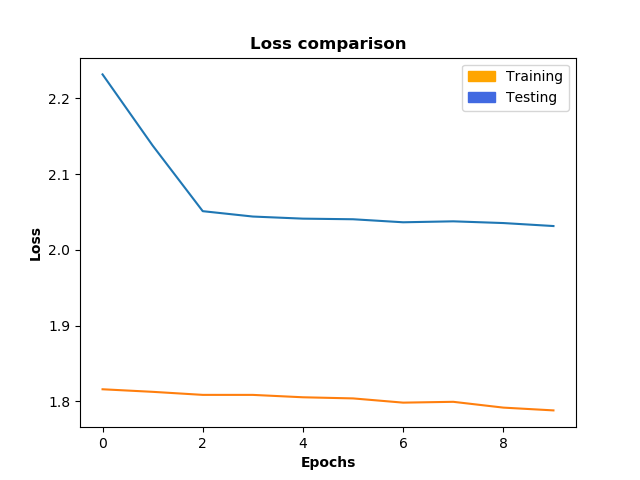
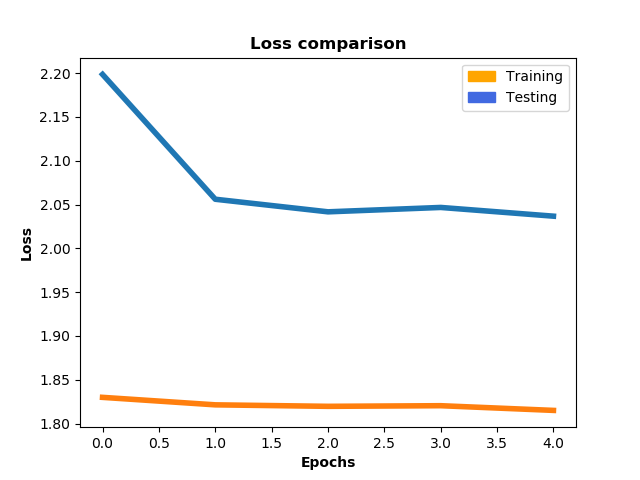
Confusion matrix

diff --git a/plots.py b/plots.py
@@ -3,8 +3,13 @@ import matplotlib.pyplot as plt
 import matplotlib.patches as mpatches
 from dataset import importMeta
 import numpy as np
+import numpy as np
+import pandas as pd
+import matplotlib.pyplot as plt
+import seaborn as sns
+from sklearn.metrics import confusion_matrix
 
-def printPlots(classes, dataset_dir, epochs, train_loss, train_acc, test_loss, test_acc, class_acc):
+def printPlots(classes, dataset_dir, epochs, train_loss, train_acc, test_loss, test_acc, class_acc, predict, true):
 
     train_labels = importMeta(dataset_dir / 'train')
     train_classes = list(0. for i in range(10))
@@ -29,6 +34,8 @@ def printPlots(classes, dataset_dir, epochs, train_loss, train_acc, test_loss, t
     #netAccuracy(classes, class_acc)
     lossComparison(train_loss, test_loss, epochs)
     accComparison(train_acc, test_acc, epochs)
+
+    cm_analysis(true, predict, 'matrix.png', list(i for i in range(10)), ymap=None, figsize=(10, 10))
 
 def datasetDistribution(labels, classes, title):
     plt.bar(classes, labels)
@@ -104,4 +111,55 @@ def accuracyHistory(name, accs):
 def netAccuracy(classes, accuracy):
     plt.bar(classes, accuracy)
     plt.xticks(rotation=30, ha='right')
+    plt.show()
+
+
+def cm_analysis(y_true, y_pred, filename, labels, ymap=None, figsize=(10,10)):
+    """
+    Generate matrix plot of confusion matrix with pretty annotations.
+    The plot image is saved to disk.
+    args:
+      y_true:    true label of the data, with shape (nsamples,)
+      y_pred:    prediction of the data, with shape (nsamples,)
+      filename:  filename of figure file to save
+      labels:    string array, name the order of class labels in the confusion matrix.
+                 use `clf.classes_` if using scikit-learn models.
+                 with shape (nclass,).
+      ymap:      dict: any -> string, length == nclass.
+                 if not None, map the labels & ys to more understandable strings.
+                 Caution: original y_true, y_pred and labels must align.
+      figsize:   the size of the figure plotted.
+    """
+
+    print(y_pred)
+    print(y_pred)
+    print(confusion_matrix(y_true, y_pred))
+
+
+    if ymap is not None:
+        y_pred = [ymap[yi] for yi in y_pred]
+        y_true = [ymap[yi] for yi in y_true]
+        labels = [ymap[yi] for yi in labels]
+    cm = confusion_matrix(y_true, y_pred, labels=labels)
+    cm_sum = np.sum(cm, axis=1, keepdims=True)
+    cm_perc = cm / cm_sum.astype(float) * 100
+    annot = np.empty_like(cm).astype(str)
+    nrows, ncols = cm.shape
+    for i in range(nrows):
+        for j in range(ncols):
+            c = cm[i, j]
+            p = cm_perc[i, j]
+            if i == j:
+                s = cm_sum[i]
+                annot[i, j] = '%.1f%%\n%d/%d' % (p, c, s)
+            elif c == 0:
+                annot[i, j] = ''
+            else:
+                annot[i, j] = '%.1f%%\n%d' % (p, c)
+    cm = pd.DataFrame(cm, index=labels, columns=labels)
+    cm.index.name = 'Actual'
+    cm.columns.name = 'Predicted'
+    fig, ax = plt.subplots(figsize=figsize)
+    sns.heatmap(cm, annot=annot, fmt='', ax=ax)
+    plt.savefig(filename)
     plt.show()

diff --git a/testing.py b/testing.py
@@ -11,8 +11,10 @@ def test(epochs, testloader, classes, batch_size, net, device):
 
     total_losses = []
     total_accs = []
-    total_items = list(0. for i in range(10))
-    total_corrects = list(0. for i in range(10))
+    total_items = list(1. for i in range(10))
+    total_corrects = list(1. for i in range(10))
+    true = []
+    predict = []
 
     criterion = nn.CrossEntropyLoss()
     optimizer = optim.SGD(net.parameters(), lr=0.001, momentum=0.9)
@@ -30,13 +32,16 @@ def test(epochs, testloader, classes, batch_size, net, device):
             labels = batch['idx'].to(device)
 
             outputs = net(images)
-            _, predicted = torch.max(outputs.data, 1)
+            _, prediction = torch.max(outputs.data, 1)
 
             for item in range(batch_size):
                 label = labels[item]
                 epoch_items[label] += 1
                 total_items[label] += 1
-                if (predicted.data[item] == label):
+                predicted = prediction.data[item]
+                predict.append(predicted.item())
+                true.append(label.item())
+                if (predicted == label):
                     epoch_corrects[label] += 1
                     total_corrects[label] += 1
 
@@ -63,4 +68,4 @@ def test(epochs, testloader, classes, batch_size, net, device):
         class_accuracy.append(100 * total_corrects[i] / (total_items[i]+1))
         print(f"[{classes[i]}: {class_accuracy[i]:.2f}%]")
 
-    return total_losses, total_accs, class_accuracy
+    return total_losses, total_accs, class_accuracy, total_corrects, predict, true

diff --git a/main.py b/main.py
@@ -45,21 +45,21 @@ def main(args):
 
     # -- TESTING -- #
     print(f"STARTING TESTING... ({args.epochs} epochs)")
-    test_loss, test_acc, class_acc = test(args.epochs, testloader, classes, args.batch_size, net, args.device)
+    test_loss, test_acc, class_acc, true, predict, true = test(args.epochs, testloader, classes, args.batch_size, net, args.device)
     print("TESTING FINISHED")
     print(f"Loss history: {test_loss}")
     print(f"Accuracy history: {test_acc}")
 
-    plots.printPlots(classes, args.dataset_dir, args.epochs, train_loss, train_acc, test_loss, test_acc, class_acc)
+    plots.printPlots(classes, args.dataset_dir, args.epochs, train_loss, train_acc, test_loss, test_acc, class_acc, predict, true)
 
 
 if __name__ == '__main__':
 
     parser = argparse.ArgumentParser()
     parser.add_argument('dataset_dir', type=Path)
-    parser.add_argument('--epochs', type=int, default=100)
+    parser.add_argument('--epochs', type=int, default=5)
     parser.add_argument('--batch_size', type=int, default=4)
-    parser.add_argument('--device', choices=['cpu', 'cuda'], default='cuda')
+    parser.add_argument('--device', choices=['cpu', 'cuda'], default='cpu')
     args = parser.parse_args()
     main(args)
 
